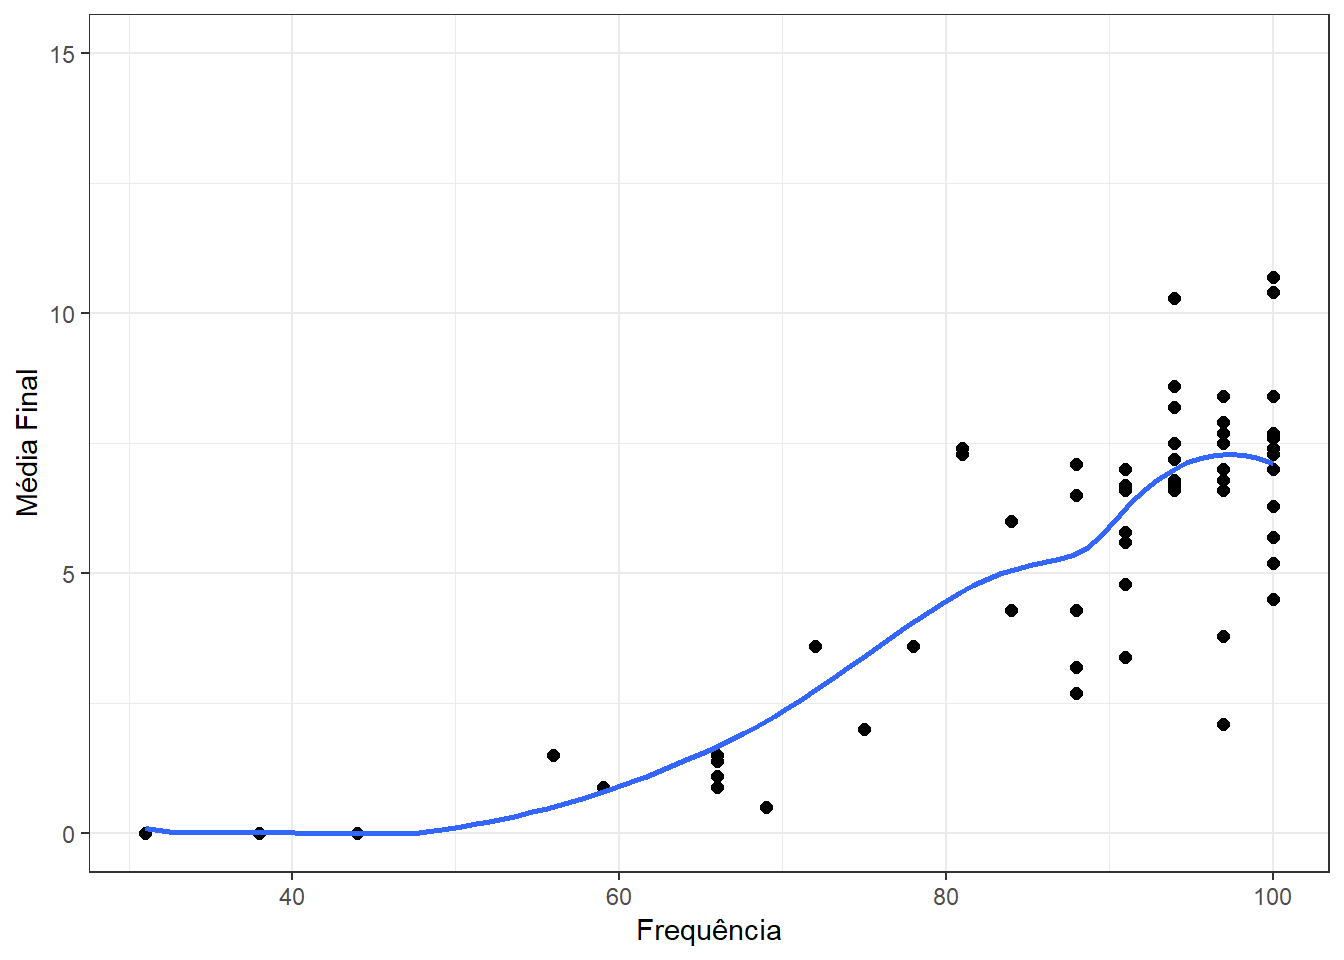
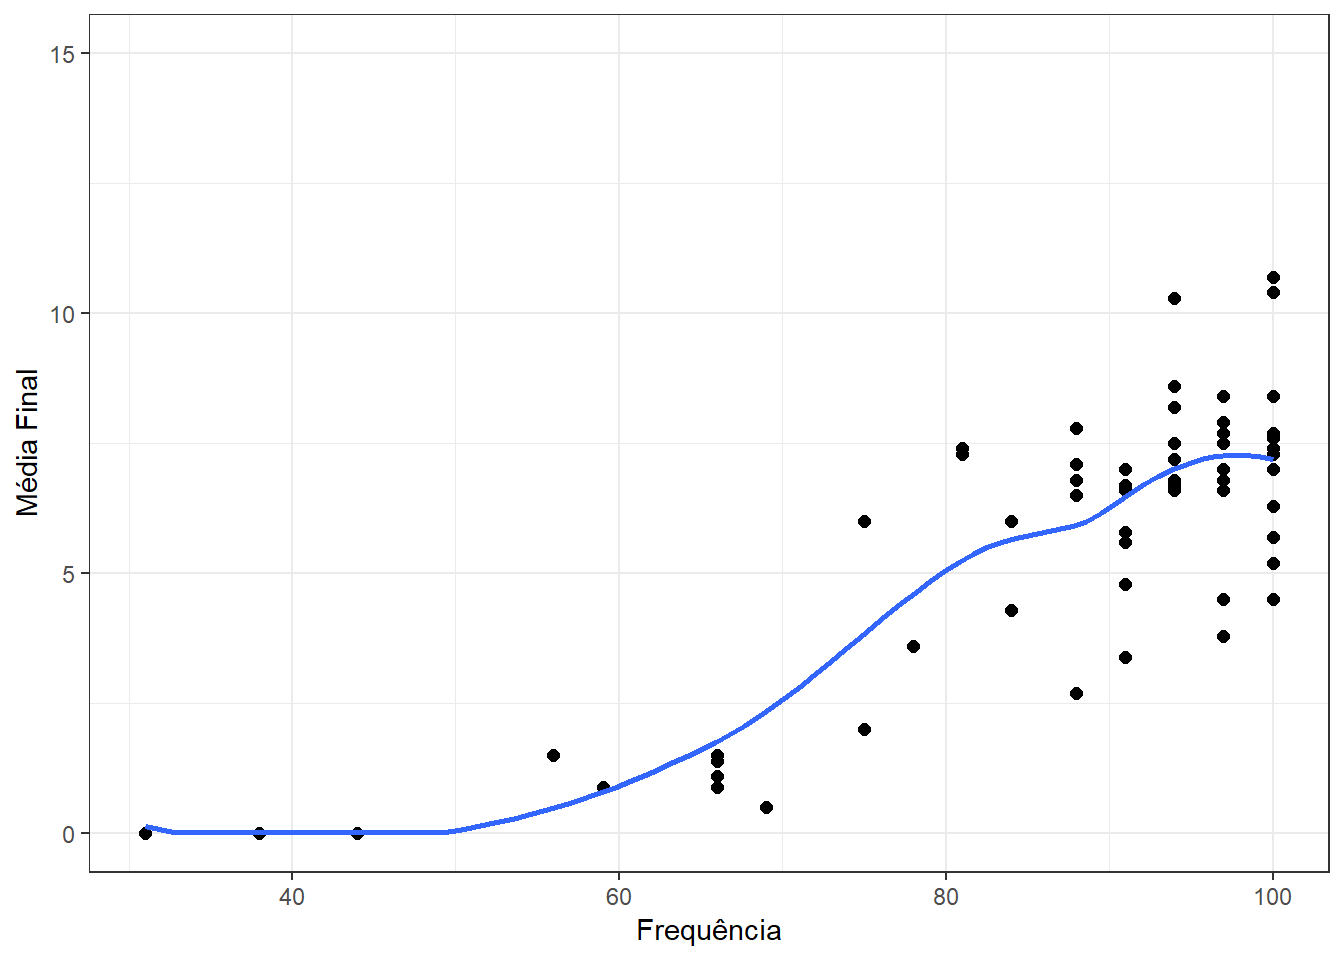
Atualiza page

diff --git a/notas.html b/notas.html
@@ -1871,7 +1871,7 @@ APROVADO
 GRR20190762
 </td>
 <td style="border-right: 1px solid black; text-align: center;">
-72
+75
 </td>
 <td style="border-right: 1px solid black; text-align: center;">
 5.4
@@ -1880,13 +1880,13 @@ GRR20190762
 5.5
 </td>
 <td style="border-right: 1px solid black; text-align: center;">
-0
+7.2
 </td>
 <td style="border-right: 1px solid black; text-align: center;">
-3.6
+6
 </td>
 <td style="border-right: 1px solid black; text-align: center;">
-REPROVADO POR FALTA
+EM FINAL
 </td>
 </tr>
 <tr style="background-color: #bbbbbb;">
@@ -1903,13 +1903,13 @@ GRR20190703
 5.5
 </td>
 <td style="background-color: #bbbbbb; border-right: 1px solid black; text-align: center;">
-0
+10.7
 </td>
 <td style="background-color: #bbbbbb; border-right: 1px solid black; text-align: center;">
-3.2
+6.8
 </td>
 <td style="background-color: #bbbbbb; border-right: 1px solid black; text-align: center;">
-REPROVADO POR NOTA
+EM FINAL
 </td>
 </tr>
 <tr>
@@ -2317,13 +2317,13 @@ GRR20196914
 9.2
 </td>
 <td style="background-color: #bbbbbb; border-right: 1px solid black; text-align: center;">
-0
+10.7
 </td>
 <td style="background-color: #bbbbbb; border-right: 1px solid black; text-align: center;">
-4.3
+7.8
 </td>
 <td style="background-color: #bbbbbb; border-right: 1px solid black; text-align: center;">
-EM FINAL
+APROVADO
 </td>
 </tr>
 <tr>
@@ -2409,13 +2409,13 @@ GRR20190717
 2.1
 </td>
 <td style="background-color: #bbbbbb; border-right: 1px solid black; text-align: center;">
-0
+7.2
 </td>
 <td style="background-color: #bbbbbb; border-right: 1px solid black; text-align: center;">
-2.1
+4.5
 </td>
 <td style="background-color: #bbbbbb; border-right: 1px solid black; text-align: center;">
-REPROVADO POR NOTA
+EM FINAL
 </td>
 </tr>
 <tr>
